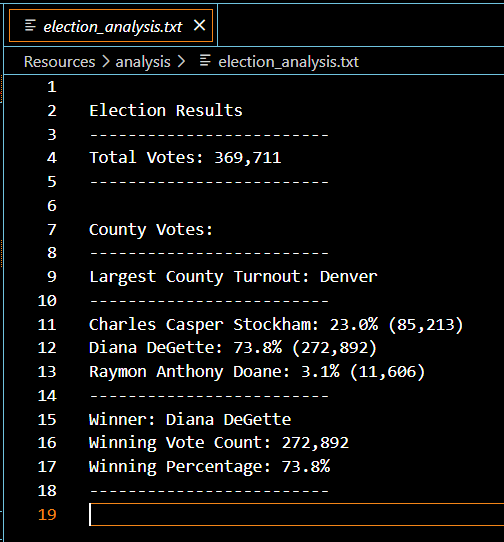
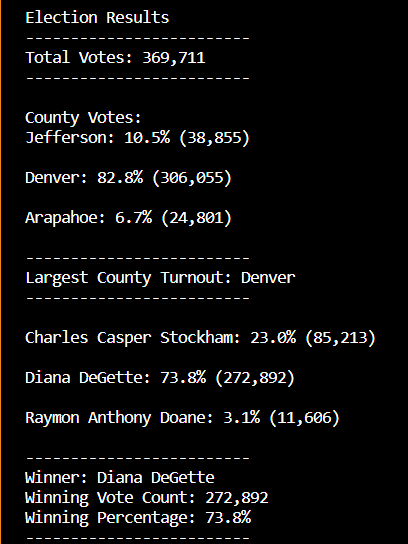
fixed print on counties and updated the image.

Changed region(s): [[0.0, 0.0, 0.9412, 1.0]]

diff --git a/PyPoll_Challenge.py b/PyPoll_Challenge.py
@@ -94,27 +94,27 @@ with open(file_to_save, "w") as txt_file:
     txt_file.write(election_results)
 
     # 6a: Write a for loop to get the county from the county dictionary.
-    for county in county_list:
+    for county_name in county_list:
 
         # 6b: Retrieve the county vote count.
-        county_vote = county_votes.get(county)
+        county_vote = county_votes[county_name]
         # 6c: Calculate the percentage of votes for the county.
         county_vote_percentage = float(county_vote) / float(total_votes) * 100
 
          # 6d: Print the county results to the terminal.
-        county_results = f"{county}: {county_vote_percentage:.1f}% ({county_vote:,})\n"
+        county_results = f"{county_name}: {county_vote_percentage:.1f}% ({county_vote:,})\n"
+        print(county_results)
+        
          # 6e: Save the county votes to a text file.
-        #txt_file.write(county_results)
+        txt_file.write(county_results)
          # 6f: Write an if statement to determine the winning county and get its vote count.
         if (county_vote > lg_county_turnout_count) and (
-            county_vote_percentage > lg_county_percentage
-        ):
+            county_vote_percentage > lg_county_percentage):
             # True
             lg_county_turnout_count = county_vote
+            lg_county_turnout = county_name
             lg_county_percentage = county_vote_percentage
-            lg_county_turnout = county
-
-
+        
     # 7: Print the county with the largest turnout to the terminal.
     winning_county_print = (
         f"-------------------------\n"
